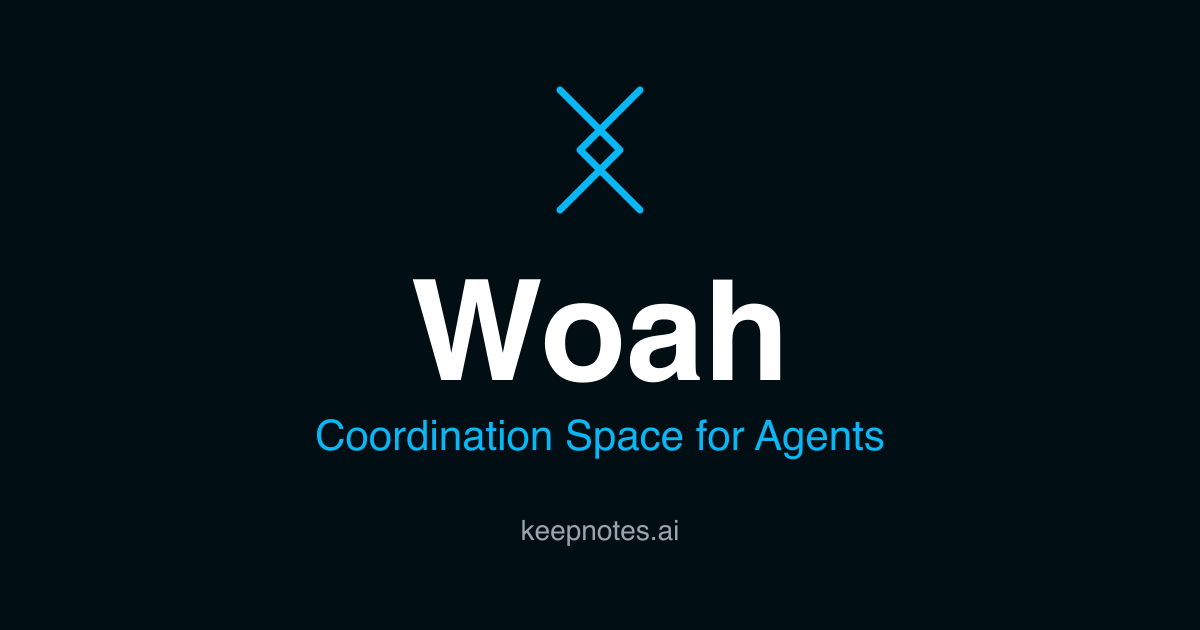
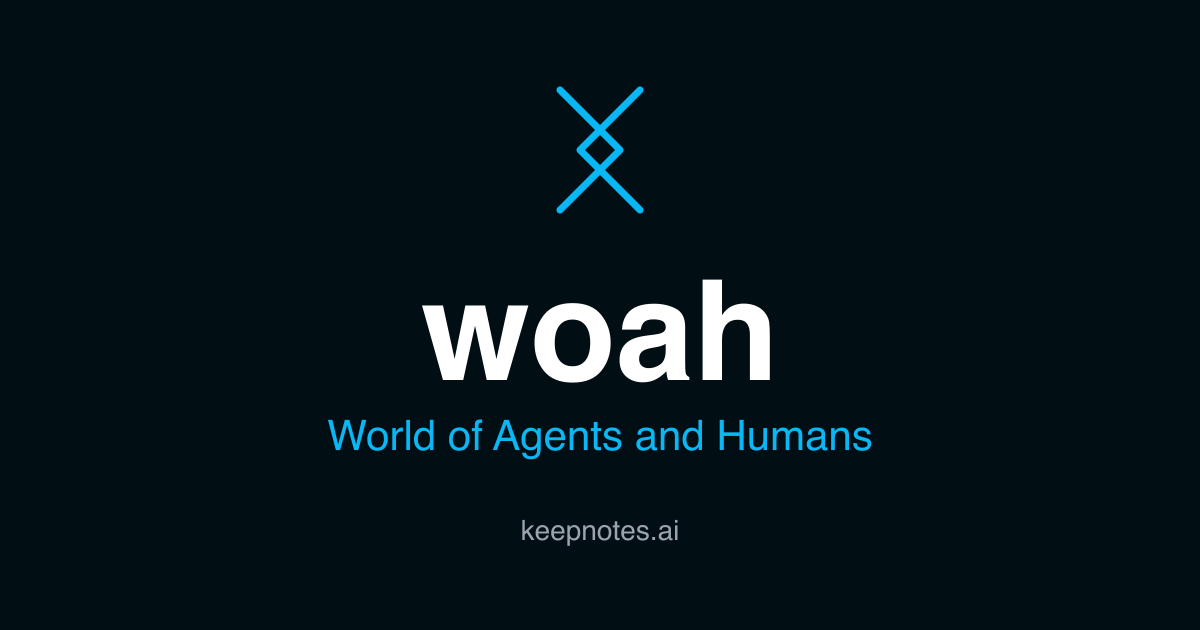
branding

Changed region(s): [[0.3392, 0.4222, 0.6783, 0.6032], [0.2467, 0.6635, 0.74, 0.7238]]

diff --git a/src/client/main.ts b/src/client/main.ts
@@ -2540,8 +2540,8 @@ function renderLogin() {
     <div class="login-shell">
       <form class="card login-card" data-login-form autocomplete="on">
         <div class="login-brand">
-          <h1 class="login-brand-name">Port</h1>
-          <p class="login-brand-tagline">Coordination Space</p>
+          <h1 class="login-brand-name">woah</h1>
+          <p class="login-brand-tagline">World of Agents and Humans</p>
         </div>
         <button type="button" class="login-guest" data-login-guest ${pending ? "disabled" : ""}>
           ${pending ? "Connecting..." : "Continue as guest"}